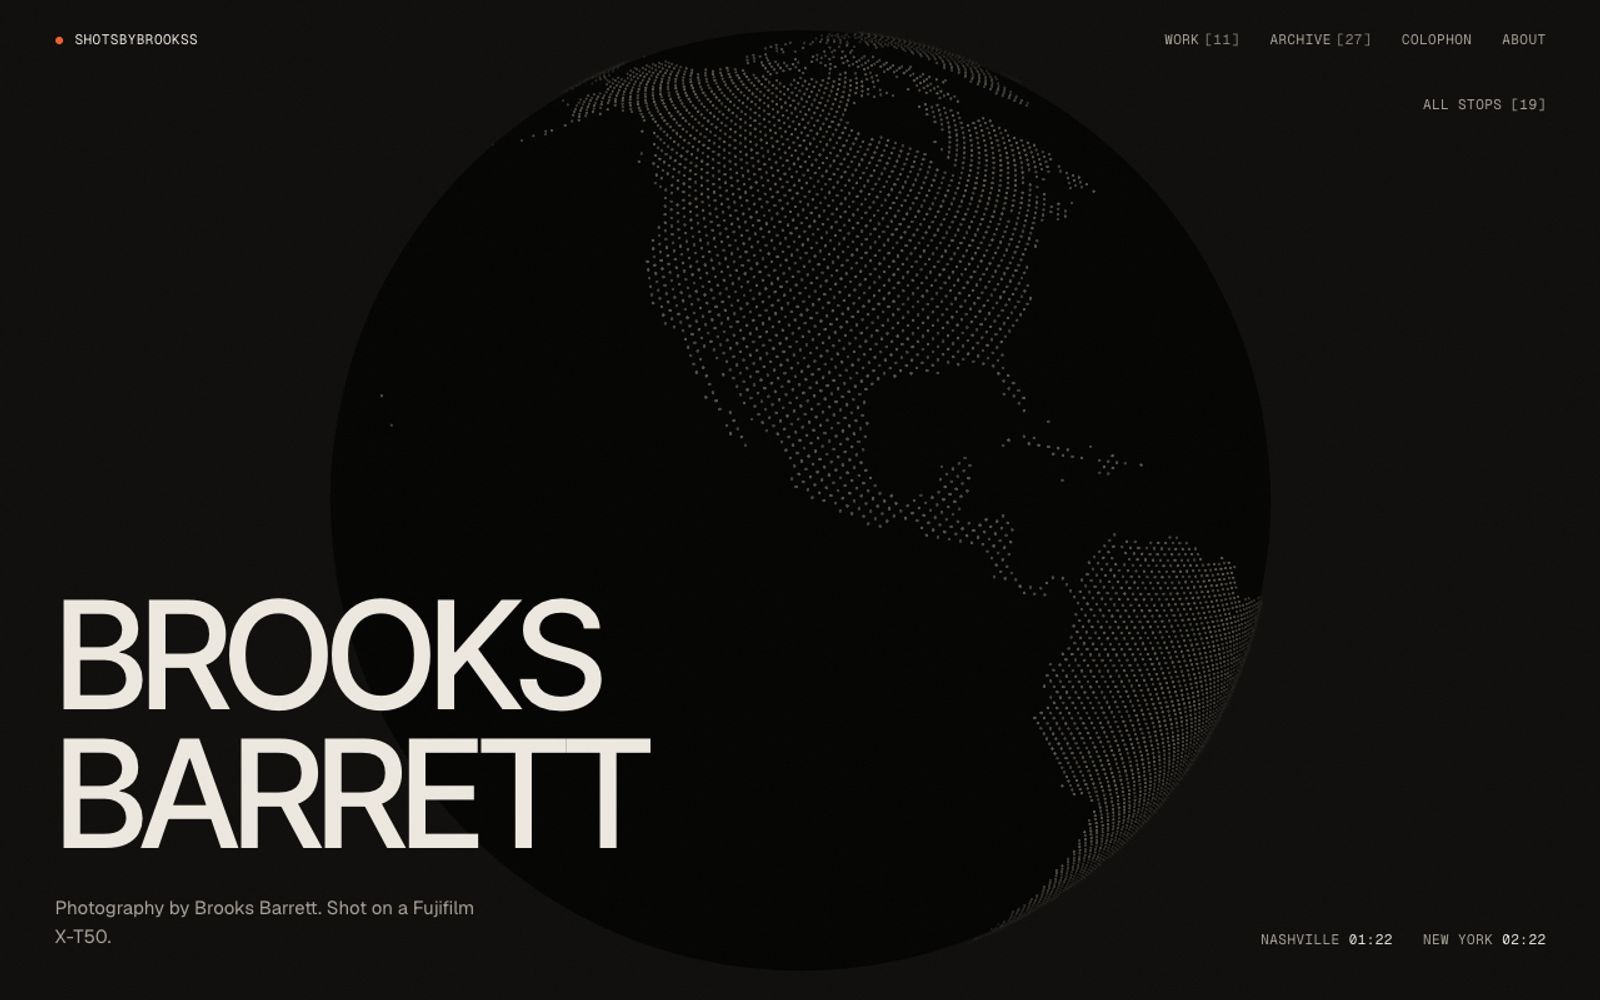
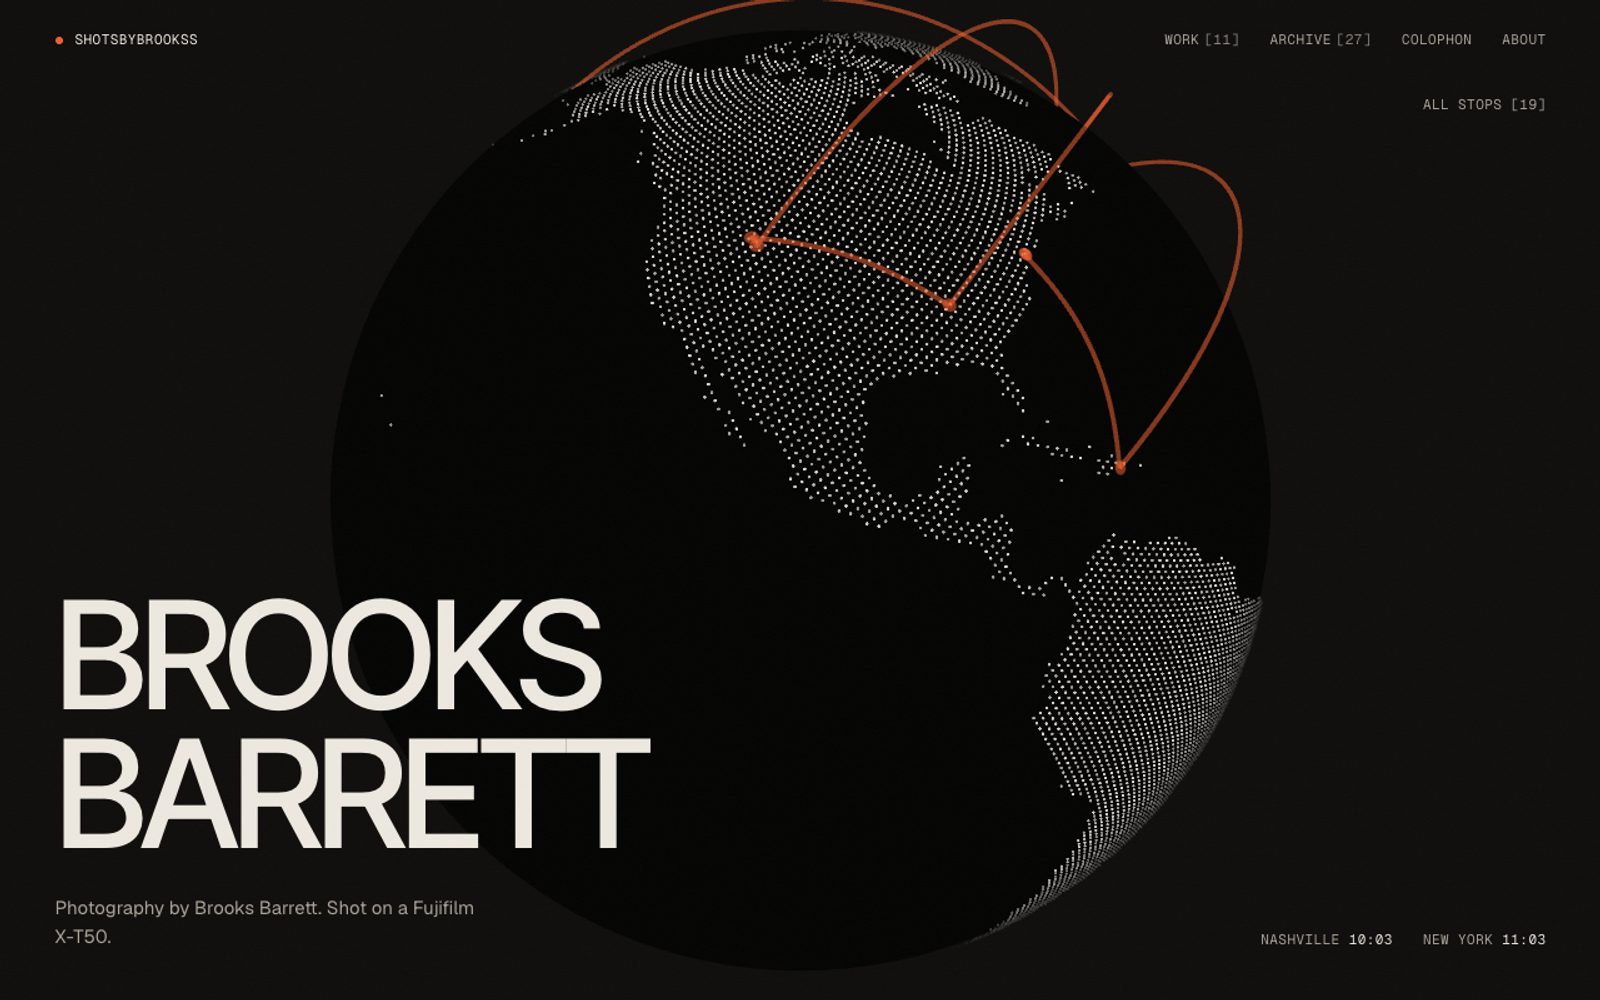
Globe: always show the route between stops
The desktop globe's arcs and pins never rendered: R3F copies a
uniforms prop into the material it creates, so per-frame updates went
to an object the GPU never saw. Materials are now built directly.

The full route is visible from the first frame on both globes; the
travelled legs draw brighter and thicker as you scroll. Also removes
the halo, renders the accent in sRGB so it matches the site's orange,
and lowers the arcs so they hug the globe.

diff --git a/src/components/globe/GlobeCanvas.tsx b/src/components/globe/GlobeCanvas.tsx
@@ -5,35 +5,29 @@
 import { Canvas, useFrame, useThree } from "@react-three/fiber";
 import { useEffect, useMemo, useRef, useState } from "react";
 import {
-  AdditiveBlending,
-  BackSide,
   BufferAttribute,
   BufferGeometry,
   CatmullRomCurve3,
   Color,
   type Group,
   Quaternion,
+  ShaderMaterial,
   TubeGeometry,
   Vector3,
 } from "three";
 import { GLOBE_READY } from "@/lib/preloader";
 import { angleDelta, arcPoints, type GlobeProps, latLngToVec3, rotationToFace, type Vec3 } from "./geo3d";
-import {
-  arcFragment,
-  arcVertex,
-  atmosphereFragment,
-  atmosphereVertex,
-  dotsFragment,
-  dotsVertex,
-  pinFragment,
-  pinVertex,
-} from "./shaders";
+import { arcFragment, arcVertex, dotsFragment, dotsVertex, pinFragment, pinVertex } from "./shaders";
 
 export type { GlobeDrive, GlobeProps } from "./geo3d";
 type Props = GlobeProps;
 
-const PAPER = new Color("#ede8df");
-const SIGNAL = new Color("#f0602f");
+// The shaders write colour straight to the screen with no sRGB conversion,
+// so these hold raw sRGB values (setRGB) rather than linearized hex.
+const srgb = (hex: number) =>
+  new Color().setRGB(((hex >> 16) & 255) / 255, ((hex >> 8) & 255) / 255, (hex & 255) / 255);
+const PAPER = srgb(0xede8df);
+const SIGNAL = srgb(0xf0602f);
 const Z = new Vector3(0, 0, 1);
 const toV3 = (v: Vec3) => new Vector3(v.x, v.y, v.z);
 
@@ -82,36 +76,65 @@ function Earth({ stops, active, drive, lite, onPick }: Omit<Props, "running">) {
   }, [camera, size]);
   const [hovered, setHovered] = useState<number | null>(null);
 
-  const dotUniforms = useMemo(
-    () => ({
-      uSize: { value: lite ? 3.4 : 2.8 },
-      uPixelRatio: { value: 1 },
-      uActive: { value: new Vector3(0, 0, 1) },
-      uActiveStrength: { value: 0 },
-      uColor: { value: PAPER },
-      uAccent: { value: SIGNAL },
-      uOpacity: { value: 0 },
-      uTime: { value: 0 },
-    }),
+  // Materials are built here rather than as JSX props: R3F copies a `uniforms`
+  // prop into the material it creates, so per-frame writes to our own object
+  // would never reach the GPU. Owning the material keeps one uniforms object.
+  const dotsMaterial = useMemo(
+    () =>
+      new ShaderMaterial({
+        vertexShader: dotsVertex,
+        fragmentShader: dotsFragment,
+        uniforms: {
+          uSize: { value: lite ? 3.4 : 2.8 },
+          uPixelRatio: { value: 1 },
+          uActive: { value: new Vector3(0, 0, 1) },
+          uActiveStrength: { value: 0 },
+          uColor: { value: PAPER },
+          uAccent: { value: SIGNAL },
+          uOpacity: { value: 0 },
+          uTime: { value: 0 },
+        },
+        transparent: true,
+        depthWrite: false,
+      }),
     [lite],
   );
-
-  // Uniform objects are created once per stop list so re-renders never reset them.
-  const atmoUniforms = useMemo(() => ({ uColor: { value: PAPER }, uOpacity: { value: 0 } }), []);
-  const arcUniforms = useMemo(
-    () => stops.slice(1).map(() => ({ uColor: { value: SIGNAL }, uDraw: { value: 0 }, uOpacity: { value: 0 } })),
-    [stops],
-  );
-  const pinUniforms = useMemo(
+  const arcMaterials = useMemo(
     () =>
-      stops.map(() => ({
-        uColor: { value: SIGNAL },
-        uTime: { value: 0 },
-        uActive: { value: 0 },
-        uOpacity: { value: 0 },
-      })),
+      stops.slice(1).map(
+        () =>
+          new ShaderMaterial({
+            vertexShader: arcVertex,
+            fragmentShader: arcFragment,
+            uniforms: {
+              uColor: { value: SIGNAL },
+              uDraw: { value: 0 },
+              uOpacity: { value: 0 },
+              uBase: { value: 0.55 },
+            },
+            transparent: true,
+            depthWrite: false,
+          }),
+      ),
     [stops],
   );
+  const pinMaterials = useMemo(
+    () =>
+      stops.map(
+        () =>
+          new ShaderMaterial({
+            vertexShader: pinVertex,
+            fragmentShader: pinFragment,
+            uniforms: { uColor: { value: SIGNAL }, uTime: { value: 0 }, uActive: { value: 0 }, uOpacity: { value: 0 } },
+            transparent: true,
+            depthWrite: false,
+          }),
+      ),
+    [stops],
+  );
+  useEffect(() => () => dotsMaterial.dispose(), [dotsMaterial]);
+  useEffect(() => () => arcMaterials.forEach((m) => m.dispose()), [arcMaterials]);
+  useEffect(() => () => pinMaterials.forEach((m) => m.dispose()), [pinMaterials]);
 
   const pins = useMemo(
     () =>
@@ -129,7 +152,7 @@ function Earth({ stops, active, drive, lite, onPick }: Omit<Props, "running">) {
     () =>
       stops.slice(1).map((s, i) => {
         const curve = new CatmullRomCurve3(arcPoints(stops[i], s, lite ? 40 : 72).map(toV3));
-        return new TubeGeometry(curve, lite ? 40 : 96, lite ? 0.0045 : 0.0032, 6, false);
+        return new TubeGeometry(curve, lite ? 40 : 96, 0.0042, 6, false);
       }),
     [stops, lite],
   );
@@ -166,18 +189,20 @@ function Earth({ stops, active, drive, lite, onPick }: Omit<Props, "running">) {
     g.position.x += (shiftTarget - g.position.x) * ease(4);
     g.scale.setScalar(0.94 + 0.06 * d.intro);
 
-    dotUniforms.uTime.value = t;
-    dotUniforms.uOpacity.value = d.intro;
-    dotUniforms.uPixelRatio.value = gl.getPixelRatio();
-    if (stop) dotUniforms.uActive.value.lerp(toV3(latLngToVec3(stop.lat, stop.lng)), ease(5));
-    dotUniforms.uActiveStrength.value += ((stop ? 1 : 0) - dotUniforms.uActiveStrength.value) * ease(4);
-    atmoUniforms.uOpacity.value = 0.22 * d.intro;
+    const du = dotsMaterial.uniforms;
+    du.uTime.value = t;
+    du.uOpacity.value = d.intro;
+    du.uPixelRatio.value = gl.getPixelRatio();
+    if (stop) du.uActive.value.lerp(toV3(latLngToVec3(stop.lat, stop.lng)), ease(5));
+    du.uActiveStrength.value += ((stop ? 1 : 0) - du.uActiveStrength.value) * ease(4);
 
-    arcUniforms.forEach((u, i) => {
+    arcMaterials.forEach(({ uniforms: u }, i) => {
       u.uDraw.value = Math.min(Math.max(d.progress - i, 0), 1);
       u.uOpacity.value = d.intro;
+      // The whole route shows while idle; untravelled legs dim once the tour starts.
+      u.uBase.value += ((stop ? 0.28 : 0.55) - u.uBase.value) * ease(4);
     });
-    pinUniforms.forEach((u, i) => {
+    pinMaterials.forEach(({ uniforms: u }, i) => {
       u.uTime.value = t + i * 0.37;
       const on = i === active || i === hovered ? 1 : 0;
       u.uActive.value += (on - u.uActive.value) * ease(6);
@@ -195,54 +220,16 @@ function Earth({ stops, active, drive, lite, onPick }: Omit<Props, "running">) {
         <meshBasicMaterial color="#11100e" />
       </mesh>
 
-      {dots && (
-        <points geometry={dots}>
-          <shaderMaterial
-            vertexShader={dotsVertex}
-            fragmentShader={dotsFragment}
-            uniforms={dotUniforms}
-            transparent
-            depthWrite={false}
-          />
-        </points>
-      )}
-
-      <mesh scale={1.16}>
-        <sphereGeometry args={[1, 48, 48]} />
-        <shaderMaterial
-          vertexShader={atmosphereVertex}
-          fragmentShader={atmosphereFragment}
-          uniforms={atmoUniforms}
-          side={BackSide}
-          blending={AdditiveBlending}
-          transparent
-          depthWrite={false}
-        />
-      </mesh>
+      {dots && <points geometry={dots} material={dotsMaterial} />}
 
       {arcs.map((geometry, i) => (
-        <mesh key={`arc-${stops[i].slug}-${stops[i].name}-${i}`} geometry={geometry}>
-          <shaderMaterial
-            vertexShader={arcVertex}
-            fragmentShader={arcFragment}
-            uniforms={arcUniforms[i]}
-            transparent
-            depthWrite={false}
-          />
-        </mesh>
+        <mesh key={`arc-${stops[i].slug}-${stops[i].name}-${i}`} geometry={geometry} material={arcMaterials[i]} />
       ))}
 
       {pins.map((p, i) => (
         <group key={`pin-${stops[i].slug}-${stops[i].name}`} position={p.position} quaternion={p.quaternion}>
-          <mesh>
+          <mesh material={pinMaterials[i]}>
             <planeGeometry args={[0.11, 0.11]} />
-            <shaderMaterial
-              vertexShader={pinVertex}
-              fragmentShader={pinFragment}
-              uniforms={pinUniforms[i]}
-              transparent
-              depthWrite={false}
-            />
           </mesh>
           {/* Generous invisible hit area */}
           <mesh

diff --git a/src/components/globe/shaders.ts b/src/components/globe/shaders.ts
@@ -46,29 +46,11 @@ export const dotsFragment = /* glsl */ `
   }
 `;
 
-/** Fresnel rim on a back-faced shell: a faint warm atmosphere. */
-export const atmosphereVertex = /* glsl */ `
-  varying vec3 vNormal;
-  void main() {
-    vNormal = normalize(normalMatrix * normal);
-    gl_Position = projectionMatrix * modelViewMatrix * vec4(position, 1.0);
-  }
-`;
-
-export const atmosphereFragment = /* glsl */ `
-  uniform vec3 uColor;
-  uniform float uOpacity;
-  varying vec3 vNormal;
-  void main() {
-    float rim = pow(max(0.0, 0.66 - dot(vNormal, vec3(0.0, 0.0, 1.0))), 3.0);
-    gl_FragColor = vec4(uColor, rim * uOpacity);
-  }
-`;
-
 /**
  * Travel arcs. Tube UVs run 0 → 1 along the curve, so drawing an arc is a
- * single uniform: discard everything past uDraw, and brighten a short head
- * just behind it like a tracer.
+ * single uniform: everything up to uDraw is the travelled route at full
+ * strength with a bright tracer head; the rest of the route stays visible
+ * at uBase, so every leg reads from the first frame.
  */
 export const arcVertex = /* glsl */ `
   varying float vT;
@@ -82,12 +64,13 @@ export const arcFragment = /* glsl */ `
   uniform vec3 uColor;
   uniform float uDraw;
   uniform float uOpacity;
+  uniform float uBase;
   varying float vT;
   void main() {
-    if (vT > uDraw) discard;
-    float head = smoothstep(uDraw - 0.12, uDraw, vT) * step(uDraw, 0.999);
-    float tail = smoothstep(0.0, 0.06, vT);
-    gl_FragColor = vec4(uColor + head * 0.6, (0.55 + head * 0.45) * tail * uOpacity);
+    float drawn = step(vT, uDraw);
+    float head = smoothstep(uDraw - 0.12, uDraw, vT) * drawn * step(uDraw, 0.999);
+    float alpha = mix(uBase, 0.9 + head * 0.1, drawn);
+    gl_FragColor = vec4(uColor + head * 0.5, alpha * uOpacity);
   }
 `;
 

diff --git a/src/components/globe/Globe2D.tsx b/src/components/globe/Globe2D.tsx
@@ -103,11 +103,14 @@ export default function Globe2D({ stops, active, drive, running, onPick }: Globe
         }
       }
 
-      // Route: arcs draw in travel order with scroll progress.
-      ctx.strokeStyle = `rgba(${SIGNAL},0.9)`;
-      ctx.lineWidth = 1.25;
-      arcs.forEach((points, i) => {
-        const f = Math.min(Math.max(d.progress - i, 0), 1);
+      // Route: every leg is always visible; the travelled part draws brighter
+      // and thicker with scroll progress.
+      const legs = (f: (i: number) => number, style: string, width: number) => {
+        ctx.strokeStyle = style;
+        ctx.lineWidth = width;
+        arcs.forEach((points, i) => drawLeg(points, f(i)));
+      };
+      const drawLeg = (points: V[], f: number) => {
         if (f <= 0) return;
         const n = Math.max(1, Math.round(f * (points.length - 1)));
         ctx.beginPath();
@@ -120,7 +123,9 @@ export default function Globe2D({ stops, active, drive, running, onPick }: Globe
           pen = shown;
         }
         ctx.stroke();
-      });
+      };
+      legs(() => 1, `rgba(${SIGNAL},${stop ? 0.3 : 0.55})`, 1.25);
+      if (stop) legs((i) => Math.min(Math.max(d.progress - i, 0), 1), `rgba(${SIGNAL},0.95)`, 2);
 
       pins = [];
       stopVecs.forEach((v, i) => {

diff --git a/src/components/globe/geo3d.ts b/src/components/globe/geo3d.ts
@@ -63,7 +63,7 @@ export function arcPoints(a: { lat: number; lng: number }, b: { lat: number; lng
   const vb = latLngToVec3(b.lat, b.lng);
   const dot = Math.min(Math.max(va.x * vb.x + va.y * vb.y + va.z * vb.z, -1), 1);
   const angle = Math.acos(dot);
-  const lift = Math.min(Math.max(angle * 0.22, 0.015), 0.42);
+  const lift = Math.min(Math.max(angle * 0.09, 0.01), 0.11);
   const sinA = Math.sin(angle);
   const points: Vec3[] = [];
   for (let i = 0; i <= segments; i++) {

diff --git a/README.md b/README.md
@@ -9,16 +9,16 @@ The site opens on a globe. Scroll, and it pins and walks through every place the
 
 ## Stack
 
-|                                         |                                                                                                  |
-| --------------------------------------- | ------------------------------------------------------------------------------------------------ |
-| **Next.js 16** (App Router, TypeScript) | Every page is prerendered; there is no runtime server work.                                      |
-| **Tailwind CSS 4**                      | Design tokens in CSS variables.                                                                  |
-| **three.js + React Three Fiber**        | Desktop globe: ~18k land dots in one draw call, custom GLSL for dots, arcs, pins and atmosphere. |
-| **Canvas 2D**                           | Phone globe: the same projection without WebGL, so three.js never loads on phones.               |
-| **GSAP ScrollTrigger + Lenis**          | Pins the globe section and maps scroll to the route.                                             |
-| **sharp + exifr**                       | Image derivatives and EXIF; a small custom parser reads Fujifilm maker notes.                    |
-| **Vercel Blob**                         | Stores image derivatives outside the repo.                                                       |
-| **Vitest + GitHub Actions**             | Lint, typecheck, format, tests and build on every push.                                          |
+|                                         |                                                                                      |
+| --------------------------------------- | ------------------------------------------------------------------------------------ |
+| **Next.js 16** (App Router, TypeScript) | Every page is prerendered; there is no runtime server work.                          |
+| **Tailwind CSS 4**                      | Design tokens in CSS variables.                                                      |
+| **three.js + React Three Fiber**        | Desktop globe: ~18k land dots in one draw call, custom GLSL for dots, arcs and pins. |
+| **Canvas 2D**                           | Phone globe: the same projection without WebGL, so three.js never loads on phones.   |
+| **GSAP ScrollTrigger + Lenis**          | Pins the globe section and maps scroll to the route.                                 |
+| **sharp + exifr**                       | Image derivatives and EXIF; a small custom parser reads Fujifilm maker notes.        |
+| **Vercel Blob**                         | Stores image derivatives outside the repo.                                           |
+| **Vitest + GitHub Actions**             | Lint, typecheck, format, tests and build on every push.                              |
 
 ## How it works
 
